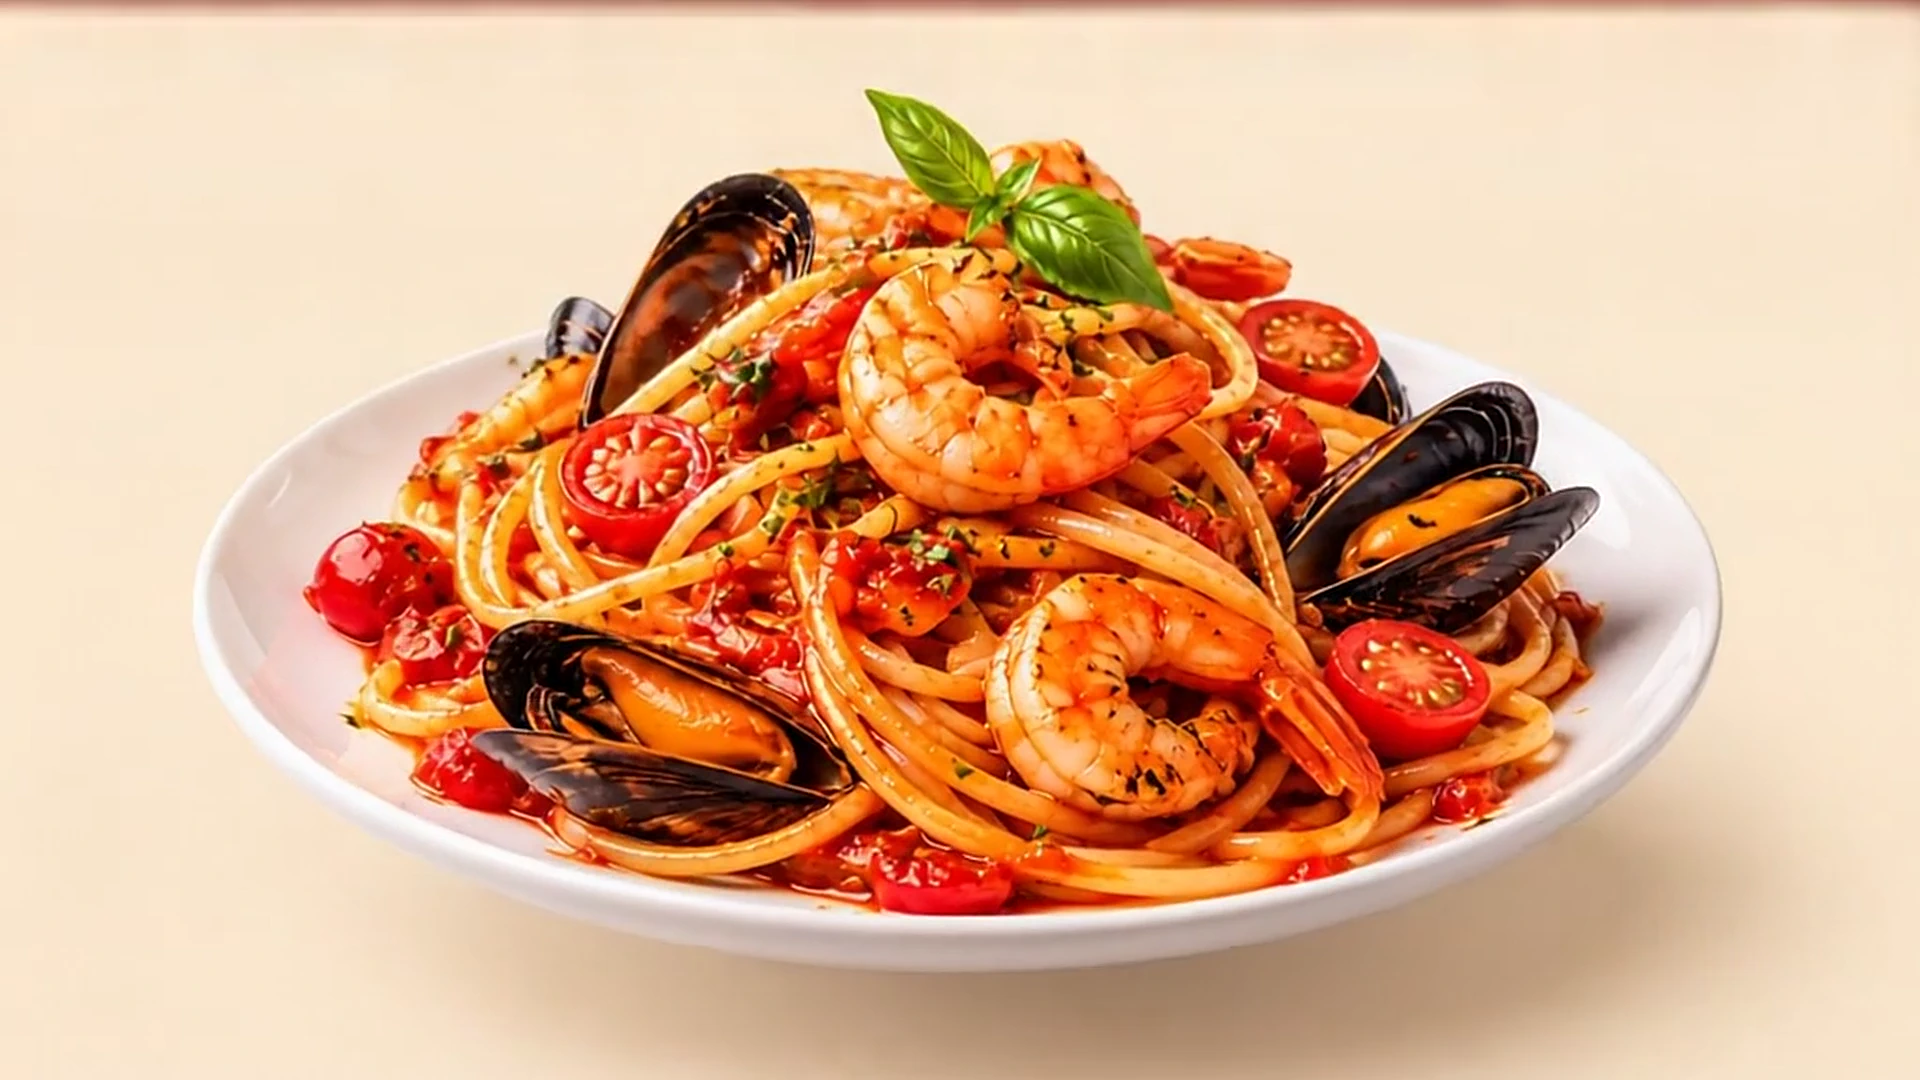
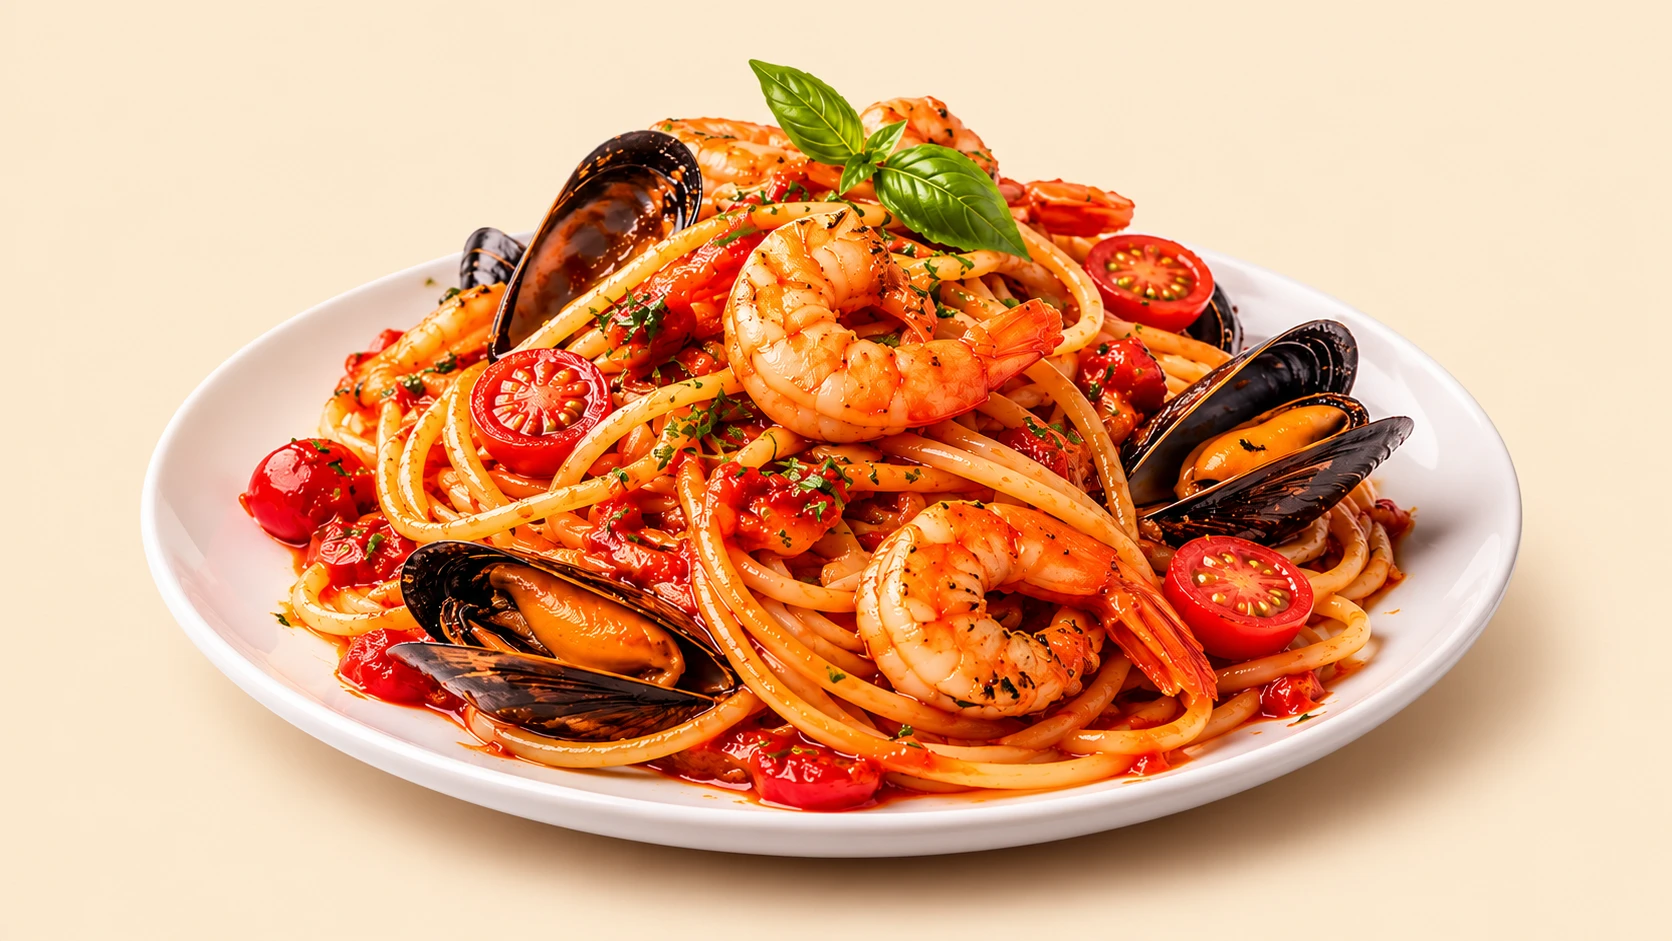
Menu photos for every dish; high-res plate as the hero's final frame
- 11 dish photos from the provided zip copied unchanged into public/images/menu
  (Next/Image serves resized WebP; source PNGs untouched); Linguine allo scoglio uses the
  provided plate photo; Spaghetti al pomodoro keeps its video still (not in the zip)
- Menu photos are shown whole (they carry the dish name): natural aspect in the tap-to-open
  detail, object-fit contain on a matching cream in the 4:5 hover preview
- Hero: frames 377-386 removed, frame 376 is now the provided 1672x941 plate photo,
  final hold lengthened to 45 frames; also the reduced-motion poster
- Removed the old video crops that the new photos replace

diff --git a/src/content/sections.ts b/src/content/sections.ts
@@ -43,15 +43,21 @@ export const story = {
   },
 } as const;
 
+export type MenuImage = { src: string; alt: string; width: number; height: number };
+
 export type MenuItem = {
   name: string;
   description: string;
   price: string;
   tags?: string[];
-  image?: { src: string; alt: string; focal?: string };
+  /** Shown whole at its own proportions (the dish photos carry their name, so they are never cropped). */
+  image?: MenuImage;
 };
 
 export type MenuCategory = { id: string; label: string; intro: string; items: MenuItem[] };
+
+const PORTRAIT = { width: 1122, height: 1402 } as const;
+const LANDSCAPE = { width: 1672, height: 941 } as const;
 
 export const menu = {
   id: "menu",
@@ -59,7 +65,7 @@ export const menu = {
   title: "Pasta, sea, and very little in between.",
   note: "Our menu follows the market — a few dishes change every week.",
   currency: "EUR",
-  fallbackImage: { src: "/brand/gira-icone-app-1024.png", alt: "The GIRA spiral", focal: "50% 50%" } as { src: string; alt: string; focal?: string },
+  fallbackImage: { src: "/brand/gira-icone-app-1024.png", alt: "The GIRA spiral", width: 1024, height: 1024 } as MenuImage,
   categories: [
     {
       id: "pasta",
@@ -73,7 +79,8 @@ export const menu = {
           image: {
             src: "/images/spaghetti-pomodoro.webp",
             alt: "A forkful of spaghetti in tomato sauce topped with a prawn and a basil leaf.",
-            focal: "45% 40%",
+            width: 900,
+            height: 900,
           },
         },
         {
@@ -82,8 +89,9 @@ export const menu = {
           price: "24",
           tags: ["Signature"],
           image: {
-            src: "/images/linguine-scoglio.webp",
-            alt: "A white plate of linguine with mussels, prawns, cherry tomatoes and basil.",
+            src: "/images/plate-linguine-scoglio.webp",
+            alt: "A white plate of linguine in tomato sauce with mussels, prawns, halved cherry tomatoes and basil.",
+            ...LANDSCAPE,
           },
         },
         {
@@ -91,14 +99,20 @@ export const menu = {
           description: "Fried aubergine, slow tomato sugo, ricotta salata.",
           price: "16",
           tags: ["Vegetarian"],
+          image: {
+            src: "/images/menu/paccheri-alla-norma.png",
+            alt: "Paccheri in tomato sauce with fried aubergine, grated ricotta salata and basil.",
+            ...PORTRAIT,
+          },
         },
         {
           name: "Tagliatelle ai frutti di mare",
           description: "Hand-cut ribbons, a white ragù of the day's catch, lemon zest.",
           price: "22",
           image: {
-            src: "/images/spirale-mare.webp",
-            alt: "Twisting pasta surrounded by mussels, prawns, tomatoes and basil.",
+            src: "/images/menu/tagliatelle-ai-frutti-di-mare.png",
+            alt: "Tagliatelle with prawns, mussels, squid rings and cherry tomatoes, topped with basil.",
+            ...PORTRAIT,
           },
         },
       ],
@@ -112,15 +126,32 @@ export const menu = {
           name: "Gamberi all'aglio",
           description: "Prawns seared with garlic, chilli and parsley, bread for the sauce.",
           price: "18",
-          image: { src: "/images/gamberi.webp", alt: "Close-up of seared prawns with basil on pasta." },
+          image: {
+            src: "/images/menu/gamberi-all-aglio.png",
+            alt: "Garlic prawns in a glossy butter sauce with parsley and basil on a white plate.",
+            ...PORTRAIT,
+          },
         },
         {
           name: "Cozze alla tarantina",
           description: "Mussels in a spicy tomato broth, grilled sourdough.",
           price: "15",
-          image: { src: "/images/cozze.webp", alt: "Open mussels in tomato sauce on a white plate." },
+          image: {
+            src: "/images/menu/cozze-alla-tarantina.png",
+            alt: "Open mussels in a spicy tomato broth with garlic and parsley.",
+            ...PORTRAIT,
+          },
         },
-        { name: "Frittura di paranza", description: "Small fish of the day, lightly fried, lemon.", price: "19" },
+        {
+          name: "Frittura di paranza",
+          description: "Small fish of the day, lightly fried, lemon.",
+          price: "19",
+          image: {
+            src: "/images/menu/frittura-di-paranza.png",
+            alt: "Lightly fried small fish, prawns and squid rings with lemon wedges.",
+            ...PORTRAIT,
+          },
+        },
       ],
     },
     {
@@ -133,10 +164,33 @@ export const menu = {
           description: "Sweet cherry tomatoes, creamy burrata, basil oil.",
           price: "12",
           tags: ["Vegetarian"],
-          image: { src: "/images/pomodorini.webp", alt: "Halved cherry tomatoes and a mussel in tomato sauce." },
+          image: {
+            src: "/images/menu/pomodorini-e-burrata.png",
+            alt: "A whole burrata surrounded by roasted cherry tomatoes, basil and olive oil.",
+            ...PORTRAIT,
+          },
         },
-        { name: "Bruschetta al pomodoro", description: "Grilled bread, raw tomato, garlic, oregano.", price: "8", tags: ["Vegan"] },
-        { name: "Polpo e patate", description: "Tender octopus, crushed potatoes, olives and parsley.", price: "14" },
+        {
+          name: "Bruschetta al pomodoro",
+          description: "Grilled bread, raw tomato, garlic, oregano.",
+          price: "8",
+          tags: ["Vegan"],
+          image: {
+            src: "/images/menu/bruschetta-al-pomodoro.png",
+            alt: "Slices of grilled bread topped with diced tomato and basil.",
+            ...PORTRAIT,
+          },
+        },
+        {
+          name: "Polpo e patate",
+          description: "Tender octopus, crushed potatoes, olives and parsley.",
+          price: "14",
+          image: {
+            src: "/images/menu/polpo-e-patate.png",
+            alt: "Octopus tentacles with potatoes, olives and parsley on a white plate.",
+            ...PORTRAIT,
+          },
+        },
       ],
     },
     {
@@ -144,9 +198,36 @@ export const menu = {
       label: "Dolci",
       intro: "Something sweet to finish the turn.",
       items: [
-        { name: "Tiramisù della casa", description: "Mascarpone, espresso, savoiardi, cocoa.", price: "8" },
-        { name: "Panna cotta agli agrumi", description: "Vanilla cream, citrus from Sicily.", price: "7" },
-        { name: "Cannolo siciliano", description: "Crisp shell, sheep's ricotta, pistachio.", price: "6" },
+        {
+          name: "Tiramisù della casa",
+          description: "Mascarpone, espresso, savoiardi, cocoa.",
+          price: "8",
+          image: {
+            src: "/images/menu/tiramisu-della-casa.png",
+            alt: "A square slice of tiramisù dusted with cocoa, topped with chocolate curls and mint.",
+            ...PORTRAIT,
+          },
+        },
+        {
+          name: "Panna cotta agli agrumi",
+          description: "Vanilla cream, citrus from Sicily.",
+          price: "7",
+          image: {
+            src: "/images/menu/panna-cotta-agli-agrumi.png",
+            alt: "A panna cotta topped with orange and blood-orange segments, citrus syrup and mint.",
+            ...LANDSCAPE,
+          },
+        },
+        {
+          name: "Cannolo siciliano",
+          description: "Crisp shell, sheep's ricotta, pistachio.",
+          price: "6",
+          image: {
+            src: "/images/menu/cannolo-siciliano.png",
+            alt: "A Sicilian cannolo filled with ricotta and chocolate chips, ends dipped in pistachio, with candied orange.",
+            ...LANDSCAPE,
+          },
+        },
       ],
     },
   ] satisfies MenuCategory[],

diff --git a/src/app/sections.css b/src/app/sections.css
@@ -328,17 +328,17 @@
 .menu__detail {
   padding-bottom: 1.5rem;
 }
+/* Dish photos carry their own name, so they are always shown whole (no crop). */
 .menu__detail-media {
   overflow: hidden;
   border-radius: 1rem;
-  aspect-ratio: 16 / 10;
-  max-width: 34rem;
-  background: var(--color-sugo);
+  max-width: 26rem;
+  background: #f9e4ca; /* the photos' own cream */
 }
 .menu__detail-media img {
+  display: block;
   width: 100%;
-  height: 100%;
-  object-fit: cover;
+  height: auto;
 }
 .menu__preview {
   display: none;
@@ -348,22 +348,25 @@
     display: block;
     position: sticky;
     top: 7rem;
-    aspect-ratio: 4 / 5;
+    /* 4:5 = the portrait photos exactly; landscape ones sit whole on the same cream. */
+    aspect-ratio: 1122 / 1402;
     border-radius: 1.25rem;
     overflow: hidden;
-    background: var(--color-sugo);
+    background: #f9e4ca;
+    display: grid;
+    place-items: center;
   }
   .menu__preview-img {
     width: 100%;
     height: 100%;
-    object-fit: cover;
+    object-fit: contain;
     animation: preview-in 0.45s var(--ease-out-soft);
   }
 }
 @keyframes preview-in {
   from {
     opacity: 0;
-    transform: scale(1.04);
+    transform: translateY(12px);
   }
 }
 

diff --git a/src/components/site/Menu.tsx b/src/components/site/Menu.tsx
@@ -120,10 +120,9 @@ export function Menu() {
                       <Image
                         src={img.src}
                         alt={img.alt}
-                        width={900}
-                        height={900}
-                        sizes="(min-width: 768px) 40vw, 85vw"
-                        style={{ objectPosition: item.image?.focal ?? "50% 50%" }}
+                        width={img.width}
+                        height={img.height}
+                        sizes="(min-width: 768px) 26rem, 90vw"
                       />
                     </div>
                   </div>
@@ -140,11 +139,10 @@ export function Menu() {
               key={shown.image.src}
               src={shown.image.src}
               alt=""
-              width={900}
-              height={900}
-              sizes="(min-width: 1024px) 34vw, 40vw"
+              width={shown.image.width}
+              height={shown.image.height}
+              sizes="(min-width: 1024px) 32rem, 40vw"
               className="menu__preview-img"
-              style={{ objectPosition: shown.image.focal ?? "50% 50%" }}
             />
           )}
         </div>

diff --git a/src/content/timeline.ts b/src/content/timeline.ts
@@ -2,7 +2,8 @@
 // Frame numbers are 1-based, matching the file names (f_0001.webp …).
 //   c1 → frames   1–120  fork twirl, pasta lifts into a spiral
 //   c2 → frames 121–241  the spiral turns, the sea orbits around it
-//   c3 → frames 242–386  the spiral settles onto the plate (cream background from 376)
+//   c3 → frames 242–375  the spiral settles onto the plate
+//   frame 376          the high-resolution plate photo (cream background), held at the end
 
 export type BeatAlign = "start" | "end";
 
@@ -23,7 +24,7 @@ export const heroTimeline = {
   /** Scroll distance (px) per frame. Higher = slower scrub. */
   pxPerFrame: 12,
   /** Extra frames of "hold" at the end so the plate rests before unpinning. */
-  holdFrames: 30,
+  holdFrames: 45,
   /** Frames over which a beat fades in or out. */
   fadeFrames: 14,
   /** From this frame the background is cream: nav switches to dark ink. */
